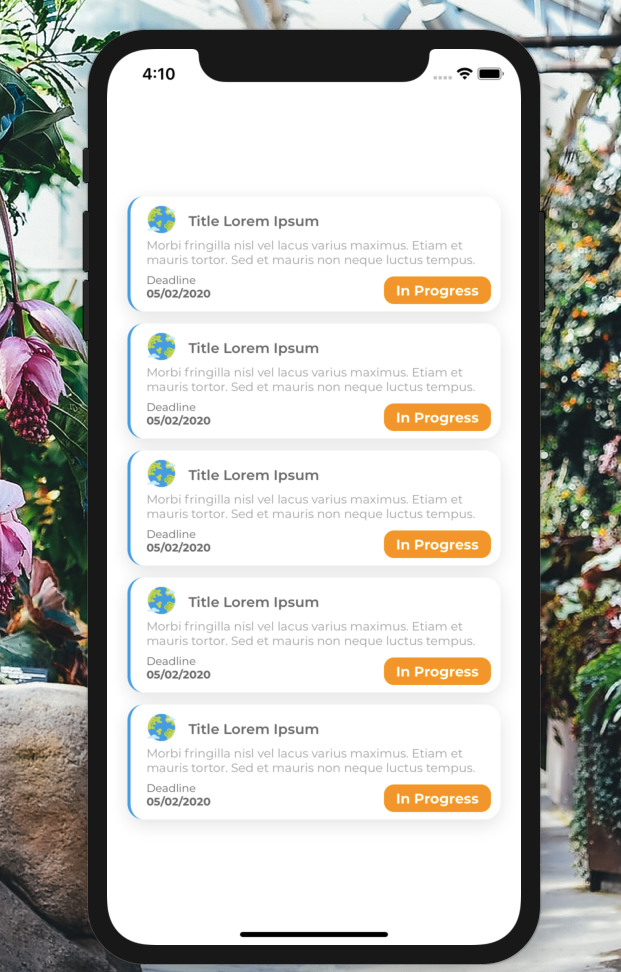
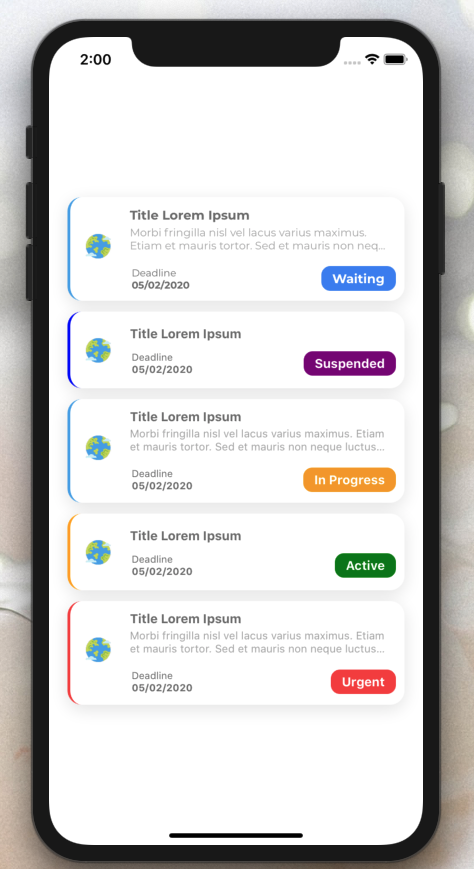
New Example

diff --git a/example/App.js b/example/App.js
@@ -10,19 +10,39 @@ const App = () => {
         style={{ flex: 1, alignItems: "center", justifyContent: "center" }}
       >
         <View style={{ marginTop: 12 }}>
-          <InformationCard fontFamily="Montserrat-Regular" />
+          <InformationCard
+            fontFamily="Montserrat-Regular"
+            statusText="Waiting"
+            statusColor="#4287f5"
+          />
         </View>
-        <View descriptionDisable style={{ marginTop: 12 }}>
-          <InformationCard />
+        <View style={{ marginTop: 12 }}>
+          <InformationCard
+            height={85}
+            descriptionDisable
+            statusColor="purple"
+            borderColor="blue"
+            statusText="Suspended"
+          />
         </View>
         <View style={{ marginTop: 12 }}>
           <InformationCard />
         </View>
         <View style={{ marginTop: 12 }}>
-          <InformationCard />
+          <InformationCard
+            height={85}
+            descriptionDisable
+            statusColor="green"
+            statusText="Active"
+            borderColor="orange"
+          />
         </View>
         <View style={{ marginTop: 12 }}>
-          <InformationCard />
+          <InformationCard
+            statusColor="#f54242"
+            statusText="Urgent"
+            borderColor="#f54242"
+          />
         </View>
       </SafeAreaView>
     </View>
